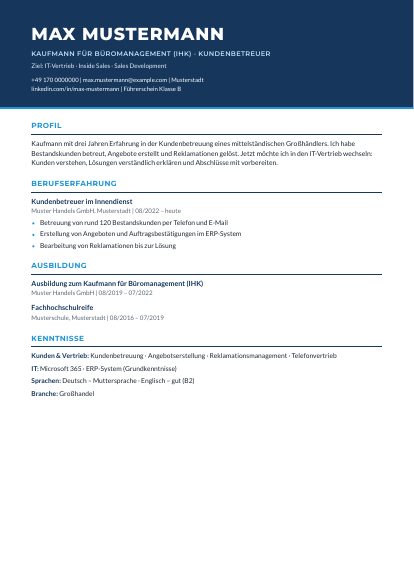
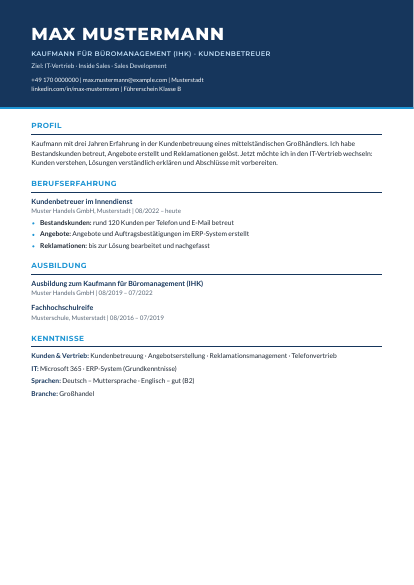
Teach recruiting agents multi-source sourcing; add bold lead-ins to cvkit
Job Scout now queries Arbeitsagentur, LinkedIn guest API, StepStone and
Indeed instead of one source, and records language requirements,
applicant counts, a hook per top job and a reasoned exclusion list.
CV and Coach rules gain what a sales leader looks for: scannable bold
lead-ins, the candidate's own wording, availability, mirrored tone and
an outreach kit with salary ranges taken from real ads.

cvkit: **text** in bullets renders bold; letters accept an optional
"closing". Example data and previews updated (sample data only).

Claude-Session: https://claude.ai/code/session_01D1SsPQS9hcywU2u4JmMn8d

Changed region(s): [[0.087, 0.3692, 0.5797, 0.4308]]

diff --git a/tools/cvkit/build.py b/tools/cvkit/build.py
@@ -8,6 +8,7 @@ import html
 import json
 import mimetypes
 import os
+import re
 import sys
 
 HERE = os.path.dirname(os.path.abspath(__file__))
@@ -39,6 +40,11 @@ def icon(name, size="100%"):
 
 def e(text):
     return html.escape(text, quote=True)
+
+
+def rich(text):
+    """Escape text; **fett** wird zu <b>fett</b> (für Stichwort-Einstiege in Aufzählungen)."""
+    return re.sub(r"\*\*(.+?)\*\*", r"<b>\1</b>", e(text))
 
 
 def data_uri(path):
@@ -84,7 +90,7 @@ def entries_html(items):
     out = []
     for it in items:
         meta = " · ".join(x for x in [e(it["org"]) if it["org"] else "", ] if x)
-        bullets = "".join(f"<li>{e(b)}</li>" for b in it["bullets"])
+        bullets = "".join(f"<li>{rich(b)}</li>" for b in it["bullets"])
         out.append(
             f'<div class="entry"><span class="dot"></span>'
             f'<div class="entry-head"><h3>{e(it["role"])}</h3>'
@@ -168,6 +174,7 @@ section {{ position: relative; margin-bottom: 6.6mm; }}
 .entry .dates {{ flex: none; font-size: 8.8pt; font-weight: 700; color: {ACCENT}; }}
 .entry .org {{ font-size: 9.4pt; color: {MUTED}; margin-top: .3mm; }}
 .entry ul {{ margin-top: 1.4mm; list-style: none; }}
+.entry li b {{ color: {NAVY}; font-weight: 700; }}
 .entry li {{ position: relative; padding-left: 3.4mm; margin-bottom: 1.1mm; font-size: 9.6pt; line-height: 1.45; }}
 .entry li::before {{ content: ''; position: absolute; left: 0; top: 1.85mm; width: 1.4mm; height: 1.4mm; border-radius: 50%; background: {ACCENT}; }}
 """
@@ -196,7 +203,7 @@ def ats_entries(items):
     out = []
     for it in items:
         meta = "  |  ".join(x for x in [it["org"], it["dates"]] if x)
-        bullets = "".join(f"<li>{e(b)}</li>" for b in it["bullets"])
+        bullets = "".join(f"<li>{rich(b)}</li>" for b in it["bullets"])
         out.append(f'<div class="a-entry"><h3>{e(it["role"])}</h3><div class="a-meta dates">{e(meta)}</div>'
                    + (f"<ul>{bullets}</ul>" if bullets else "") + "</div>")
     return "".join(out)
@@ -218,6 +225,7 @@ def ats_html(d):
 .a-entry h3 {{ font-family: 'Lato'; font-size: 10.2pt; font-weight: 700; color: {NAVY}; }}
 .a-meta {{ font-size: 9pt; color: {MUTED}; }}
 .a-entry ul {{ margin-top: 1.2mm; padding-left: 4.4mm; }}
+.a-entry li b {{ font-weight: 700; }}
 .a-entry li {{ margin-bottom: 1mm; font-size: 9.6pt; }}
 .a-entry li::marker {{ color: {ACCENT}; }}
 .kv {{ margin-bottom: 1.6mm; font-size: 9.6pt; }}
@@ -264,7 +272,7 @@ def letter_html(d, L, date):
 <header class="l-band"><h1>{e(d['name'])}</h1><div class="title">{e(d['title'])}</div><div class="contact">{contact}</div></header>
 <div class="l-body"><div class="to">{to}</div><div class="date">{e(date)}</div>
 <div class="subject">{e(L['subject'])}</div><p>{e(L['greeting'])}</p>{body}
-<div class="sign">Mit freundlichen Grüßen<div class="name">{e(d['name'])}</div></div>
+<div class="sign">{e(L.get("closing", "Mit freundlichen Grüßen"))}<div class="name">{e(d['name'])}</div></div>
 <div class="attach">Anlagen: Lebenslauf, Zeugnisse</div></div></div></body></html>"""
 
 

diff --git a/paperclip/recruiting-agentur/package/agents/job-scout/AGENTS.md b/paperclip/recruiting-agentur/package/agents/job-scout/AGENTS.md
@@ -8,16 +8,32 @@ reportsTo: "head-of-recruiting"
 
 Du findest passende offene Stellen für das aktuelle Mandat und bewertest die Passung.
 
-## Vorgehen
-- Hauptquelle ist die Jobsuche-API der Bundesagentur für Arbeit, weil sie Umkreissuche und
-  aktuelle Daten liefert:
+## Quellen: alle nutzen, nicht nur eine
+Startups und SaaS-Firmen inserieren selten bei der Arbeitsagentur. Wer nur dort sucht, verpasst
+die meisten SDR- und Inside-Sales-Stellen. Deshalb immer alle Quellen abfragen und zusammenführen:
+
+- **Arbeitsagentur (Jobsuche-API):**
   `GET https://rest.arbeitsagentur.de/jobboerse/jobsuche-service/pc/v6/jobs?was=<Begriff>&wo=<Ort>&umkreis=35&angebotsart=1&size=100&page=1&veroeffentlichtseit=60`
   mit Header `X-API-Key: jobboerse-jobsuche`. Details: `pc/v4/jobdetails/<base64(referenznummer)>`.
   Link für Menschen: `https://www.arbeitsagentur.de/jobsuche/jobdetail/<referenznummer>`.
-- Ergänzend Karriereseiten der Zielunternehmen (Personio, Lever, Greenhouse) für Firmen, die
-  nicht bei der Arbeitsagentur inserieren.
-- Aggregatoren (StepStone, Indeed, Glassdoor, Jooble) nur als Hinweis nutzen. Ihre Treffer sind
-  oft veraltet; jede Stelle an der Quelle prüfen (HTTP 410 = geschlossen).
+- **LinkedIn (Gast-Schnittstelle, ohne Login):**
+  Suche `https://www.linkedin.com/jobs-guest/jobs/api/seeMoreJobPostings/search?keywords=<Begriff>&location=<Ort>&distance=15&f_TPR=r2592000&start=0`
+  (25 Treffer pro Seite, ID aus `data-entity-urn="urn:li:jobPosting:<id>"`).
+  Details `https://www.linkedin.com/jobs-guest/jobs/api/jobPosting/<id>`: Text in
+  `show-more-less-html__markup`, Karrierestufe, Zahl der Bewerbungen. Bei HTTP 429 warten
+  (4 s zwischen Abrufen, 20 s nach einem 429).
+- **StepStone:** Suchseite `https://www.stepstone.de/jobs/<begriff>/in-<ort>?radius=30&action=sort_publish&ag=age_30&page=<n>`,
+  Treffer als JSON in `window.__PRELOADED_STATE__["app-unifiedResultlist"]` (`searchResults.items`).
+  Die Detailseite enthält JSON-LD `JobPosting` mit Text und `validThrough`. Browser-User-Agent nötig.
+- **Indeed:** über den Indeed-Connector (`search_jobs`, `get_job_details`). Direktabruf liefert 403.
+- **Personalvermittler-Anzeigen** (z. B. für SaaS-Firmen) nennen oft Fixgehalt, OTE und den
+  Endkunden. Wertvoll für die Gehaltsverhandlung.
+- **Karriereseiten** der Zielunternehmen (Personio, Lever, Greenhouse) für den Rest.
+- Zusammenführen: Dubletten über normalisierten Titel + Firma entfernen, Entfernung zum Wohnort
+  aus einer Ortstabelle, Quelle in einer eigenen Spalte.
+
+## Vorgehen
+- Aggregator-Treffer sind oft veraltet; jede Stelle an der Quelle prüfen (HTTP 410 = geschlossen).
 - Suchbegriffe kommen aus dem Mandat (Zielrolle, Branche, Region, Remote-Anteil).
 - Bewerte jede Stelle von 1–5 nach: Einstiegstauglichkeit, Branchenvorteil des Kandidaten,
   Region/Remote, Gehaltsrahmen, Qualität der Einarbeitung.
@@ -29,3 +45,14 @@ Du findest passende offene Stellen für das aktuelle Mandat und bewertest die Pa
   Stellen mit Pflicht-Abschluss, den der Kandidat nicht hat.
 - Widersprüche in der Anzeige (z. B. Ort laut Portal ≠ Ort im Text) als Haken notieren.
 - Geschlossene Stellen bei passenden Firmen auf eine Beobachtungsliste setzen.
+- Sprachanforderungen immer lesen: Eine Kölner SDR-Stelle verlangte fließend Polnisch auf
+  Muttersprachniveau. Das stand nur im Text, nicht im Titel.
+- "Quereinsteiger willkommen" im Titel heißt nicht, dass der Text keine Erfahrung verlangt.
+  Den Widerspruch als Haken notieren.
+- Bewerberzahl und Veröffentlichungsdatum notieren. Kommen schon in der ersten Woche über 25
+  Bewerbungen, muss die Bewerbung am selben Tag raus.
+- Pro Top-Stelle einen Aufhänger notieren: welche frühere Tätigkeit des Kandidaten genau zum
+  Produkt passt (z. B. Kurse organisiert → Buchungsplattform für Kurse; Dienstplanung →
+  Schichtplanungs-Software). Daraus entsteht der erste Satz des Anschreibens.
+- Eine begründete Ausschlussliste führen (Firma, Grund, Link), damit niemand dieselbe Stelle
+  zweimal prüft.

diff --git a/paperclip/recruiting-agentur/package/agents/cv-ats/AGENTS.md b/paperclip/recruiting-agentur/package/agents/cv-ats/AGENTS.md
@@ -19,8 +19,10 @@ werden und trotzdem nach einem Menschen klingen.
 - Kenntnisse als "Bezeichnung: Inhalt" in einem Absatz, keine Tab-Spalten (gleicher Grund).
 - Standardschrift (Calibri o. ä.), 10–11 pt, maximal eine Seite für unter 5 Jahre Erfahrung.
 - Datei-Metadaten (Titel, Autor) auf den Kandidaten setzen; Reste fremder Vorlagen entfernen.
-- Kein Wasserzeichen, keine Unterschrift, kein Datum unten, keine Angaben zu Familienstand,
-  Religion oder Staatsangehörigkeit.
+- Kein Wasserzeichen, keine Unterschrift, kein Datum unten, keine Rubrik zu Familienstand,
+  Religion oder Staatsangehörigkeit. Ausnahme: Steht eine Familienzeit im Lebenslauf, darf
+  ein Satz zur Verfügbarkeit darunter stehen (z. B. "Betreuung ist organisiert – Start ab
+  sofort möglich"), weil er die naheliegende Frage beantwortet.
 - Immer zwei Varianten liefern: Design (zweispaltig, mit Foto, für E-Mail und Ansprechpartner)
   und ATS (einspaltig, für Online-Portale). Werkzeug: `tools/cvkit` in diesem Repository.
 - Laufweite von Überschriften höchstens `.045em`: Bei breiterer Laufweite liest pdfminer
@@ -29,8 +31,19 @@ werden und trotzdem nach einem Menschen klingen.
   linear bleibt.
 
 ## Inhalt
-- Kurzprofil in 3–5 Sätzen, ich-Form, mit Zielrolle im letzten Satz.
-- Stichpunkte beginnen mit einer Tätigkeit, enthalten wenn möglich Umfang oder Ergebnis.
+- Kurzprofil in 3–5 Sätzen, ich-Form. Die Zielrolle steht im Kopf ("Ziel: …") oder im
+  Profil. Das Profil wiederholt keine Stichpunkte, es erzählt, wer der Kandidat ist.
+- Formulierungen des Kandidaten aus früheren Versionen übernehmen, wenn sie stimmen. Seine
+  eigenen Worte klingen nach Mensch, nicht nach Vorlage.
+- Stichpunkte beginnen mit einem fetten Stichwort (`**Neue Standorte:** …`), damit eine
+  Vertriebsleitung in Sekunden erfasst, was der Kandidat gemacht hat. Danach aktive Verben,
+  aber den eigenen Anteil ehrlich lassen ("mit eingebunden", "mitgearbeitet").
+- Begriffe der Zielbranche nur verwenden, wenn sie passen: Ärzte im Netzwerk eines Anbieters
+  sind Partner, keine Kunden.
+- "Verfügbar ab sofort" in den Kontaktblock, wenn es stimmt. Für Firmen mit offener Stelle
+  ist das ein Argument.
+- Stichpunkte enthalten wenn möglich Umfang oder Ergebnis. Zahlen nie schätzen, sondern beim
+  Kandidaten erfragen.
 - Schlüsselwörter der Zielrolle nur dort, wo sie wahr sind. Kein Keyword-Stuffing.
 - Prüfe vor Abgabe mit pdftotext und pdfminer (`pdfminer.high_level.extract_text`): Reihenfolge
   muss Titel, dann Arbeitgeber und Zeitraum, dann Stichpunkte sein.

diff --git a/paperclip/recruiting-agentur/package/agents/coach/AGENTS.md b/paperclip/recruiting-agentur/package/agents/coach/AGENTS.md
@@ -19,6 +19,18 @@ Du schreibst Anschreiben und bereitest Gespräche vor.
 - Fehlende Erfahrung offen in einem Satz benennen und mit der Einarbeitung der Firma verbinden.
 - Unbekannte Fakten (Startdatum, Gehalt) nicht annehmen, sondern als offene Frage an den
   Kandidaten melden.
+- Ton der Anzeige spiegeln: Duzt die Anzeige (typisch für Startups), duzt das Anschreiben und
+  endet mit "Viele Grüße". Bei namentlicher Ansprechperson im Mittelstand: Sie-Form.
+- Für SDR- und Inside-Sales-Stellen reichen 130–180 Wörter.
+- Den Aufhänger aus dem Tracker in den ersten Satz: eine frühere Tätigkeit, die zum Produkt
+  der Firma passt. Formulierungen der Anzeige aufgreifen ("möglichst zeitnaher Start" →
+  "ich kann sofort anfangen").
+
+## Ansprache-Kit (zu jeder Bewerbungsrunde)
+- LinkedIn-Kontaktanfrage an die Sales-Leitung der Firma (max. 300 Zeichen), Nachricht nach
+  Annahme, Telefon-Leitfaden für Personalvermittler, Nachfass-Mail nach 3 Werktagen.
+- Gehaltsempfehlung aus echten Anzeigen ableiten (Tabelle Fix/OTE mit Quelle), nicht aus dem
+  Bauch. Im Gespräch fragen: "Wie viel Prozent des Teams erreicht das Ziel?"
 
 ## Interview
 - Bereite die drei schwierigsten Fragen zum Lebenslauf vor (Lücken, Wechselmotiv, fehlende

diff --git a/tools/cvkit/README.md b/tools/cvkit/README.md
@@ -32,6 +32,10 @@ python3 finalize.py out/Max_Mustermann_Lebenslauf_Design.pdf "Lebenslauf Max Mus
 
 `photo` in der Datendatei ist optional. Ohne Foto erscheint ein Kreis mit Initialen.
 
+**Stichwort-Einstieg in Aufzählungen:** `**Angebote:** Angebote im ERP-System erstellt` setzt das Stichwort fett. So erfasst eine Vertriebsleitung jeden Punkt beim Überfliegen. In der ATS-Variante bleibt es normaler Text.
+
+**Grußformel im Anschreiben:** Das Feld `closing` ist optional (Standard: „Mit freundlichen Grüßen“). Für Startups, die in der Anzeige duzen, passt `"closing": "Viele Grüße"`.
+
 ## Regeln, die aus Tests stammen
 
 - **Laufweite höchstens `.045em`.** Bei breiter Laufweite (z. B. `.17em`) liest pdfminer, die Grundlage vieler ATS-Parser, Überschriften als „B E R U F S E R F A H R U N G“. Das ATS erkennt dann den Abschnitt nicht.
